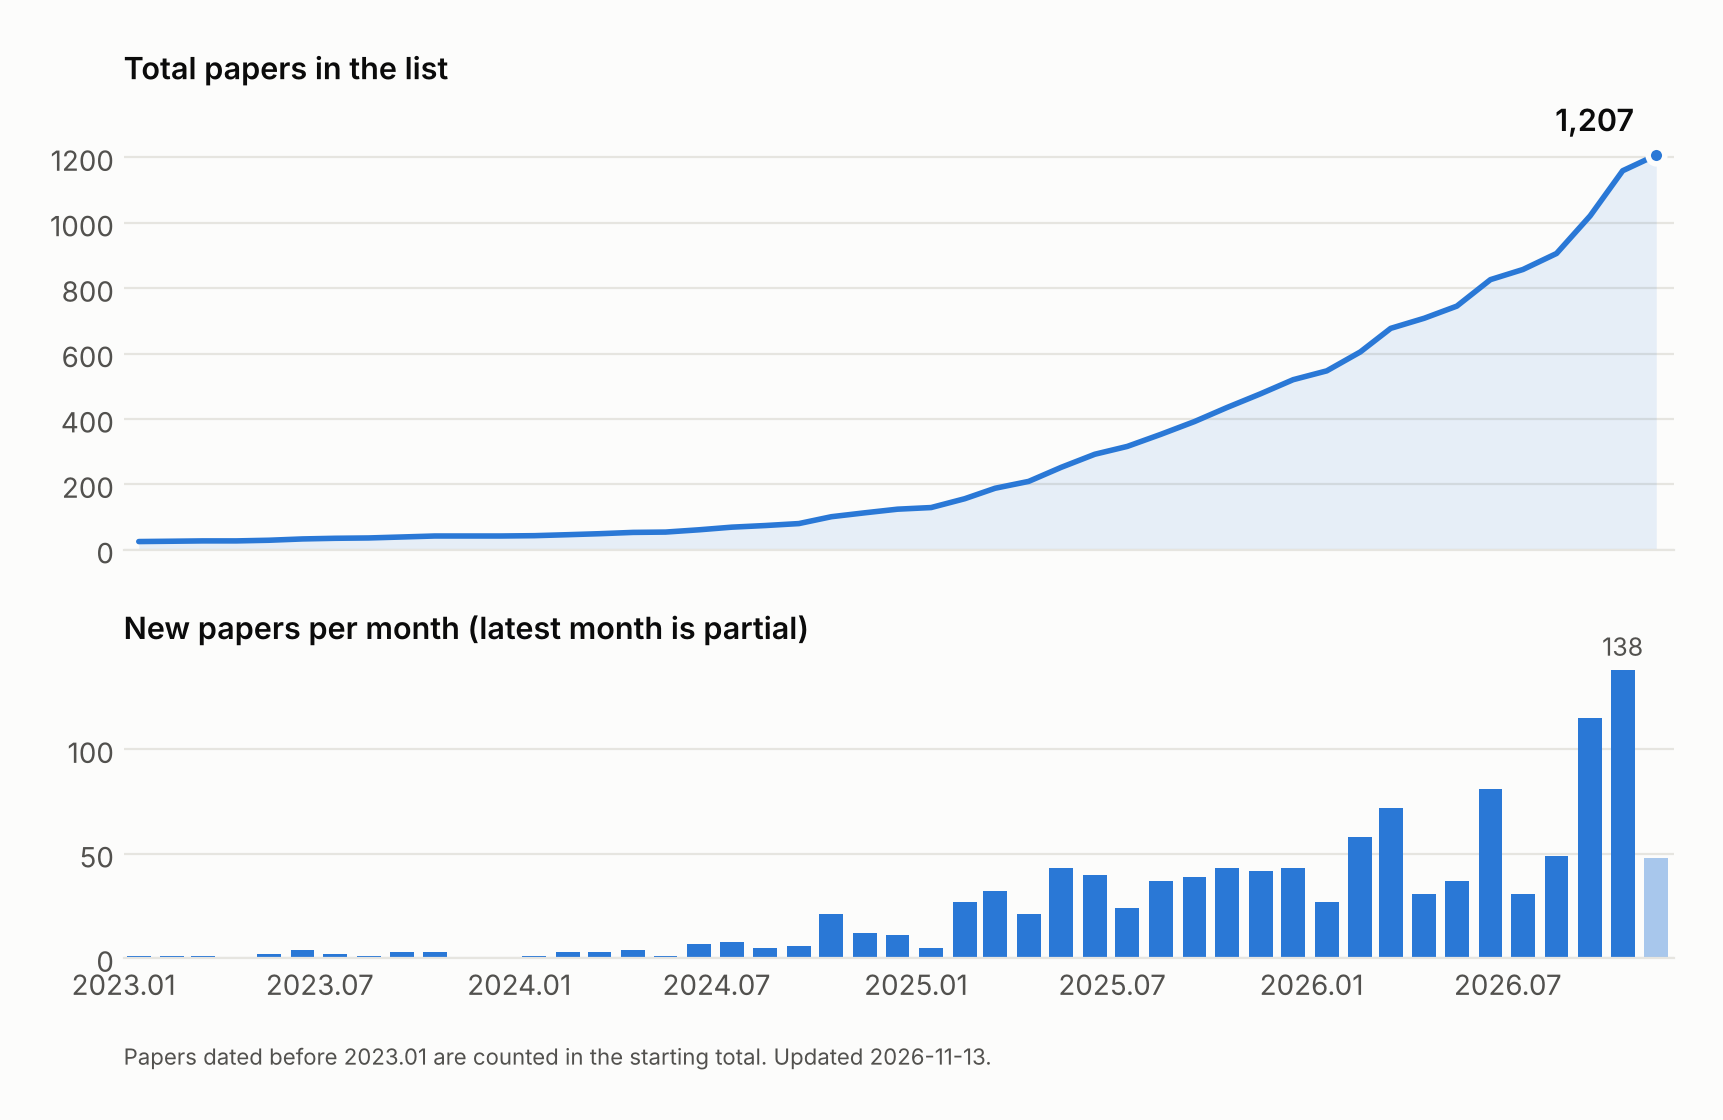
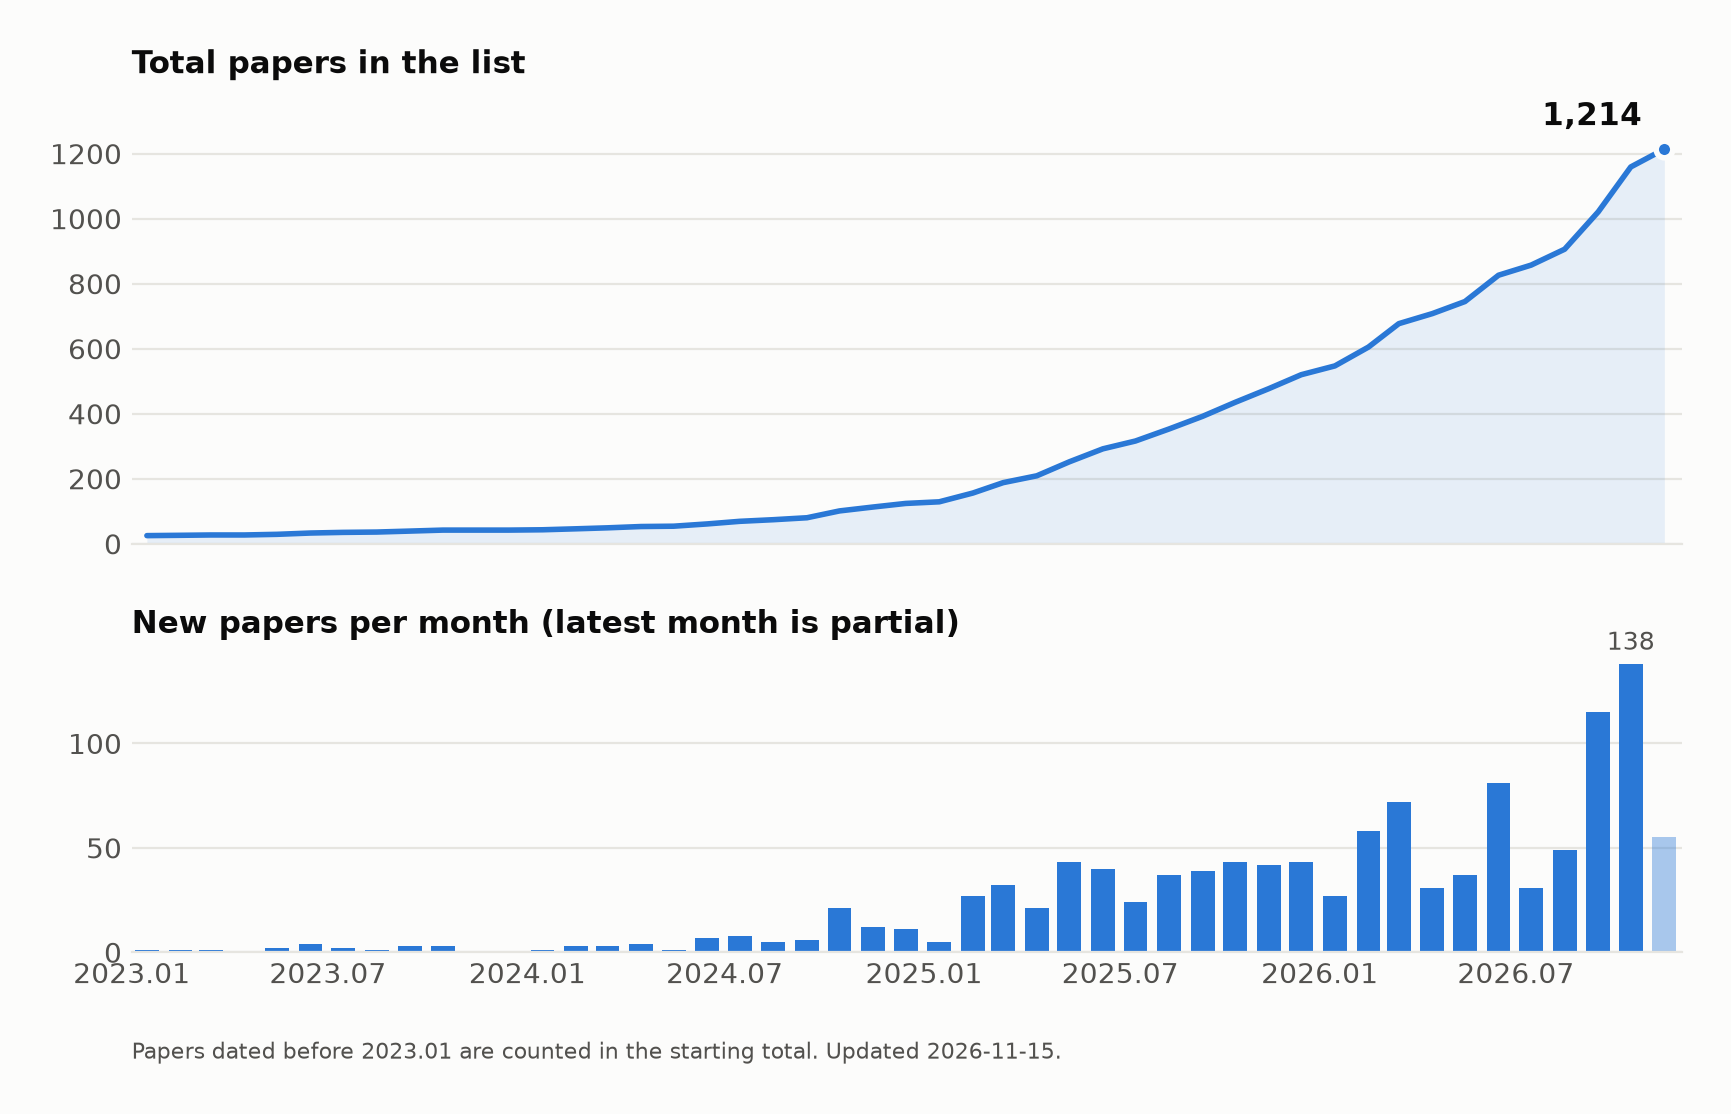
Add 7 papers from arXiv (2026-11-15)

diff --git a/README.md b/README.md
@@ -28,6 +28,9 @@ Feel free to pull a request for new papers/codes about humanoid robot learning.
 ---
 
 ## Loco-Manipulation and Whole-Body-Control
+- [arXiv 2026.11.12](https://arxiv.org/abs/2611.17142), FORGE: Force-Aware Multi-Granularity Control for Efficient Humanoid Loco-Manipulation, [website](https://bb0928.github.io/forge/)
+- 🌟[arXiv 2026.11.12](https://arxiv.org/abs/2611.16422), BlinkMimic: Training a Humanoid Motion Tracker in Minutes on a Single GPU, [code](https://github.com/fuyichen0725/blinkmimic)
+- [arXiv 2026.11.12](https://arxiv.org/abs/2611.16188), PERA: Plug-in Experts for Robotic Actions in Continual Whole-Body Control
 - [arXiv 2026.11](https://arxiv.org/abs/2611.14985), ILA: A Transferable Interface-Level Adapter for Compliant Humanoid Motion Tracking
 - [arXiv 2026.11](https://arxiv.org/abs/2611.14981), From a Single RGB Image to Robot Execution: Metric Scene Alignment and Contact-Guided Retargeting
 - [arXiv 2026.11](https://arxiv.org/abs/2611.14049), RedirectMimic: Local Motion Content Redaction for Humanoid Whole-Body Control, [website](https://xiaopeng-whu.github.io/RedirectMimic/)
@@ -720,6 +723,7 @@ Feel free to pull a request for new papers/codes about humanoid robot learning.
 
 
 ## Locomotion
+- [arXiv 2026.11.12](https://arxiv.org/abs/2611.16346), MotionSkill: From Bipedal Motion Video to Control across Embodiments
 - [arXiv 2026.11](https://arxiv.org/abs/2611.13929), ReACT: Reflection-Consistent Modulation and Cross-Load Consistency for Humanoid Velocity Tracking Under Asymmetric Loads
 - [arXiv 2026.11](https://arxiv.org/abs/2611.08857), STRIDE: Learning Humanoid Locomotion in Minutes with Acceleration-Based Rewards
 - [arXiv 2026.11](https://arxiv.org/abs/2611.08097), STEP: Spatiotemporal Training with Explicit Prediction for Perceptive Humanoid Locomotion
@@ -1017,6 +1021,7 @@ Feel free to pull a request for new papers/codes about humanoid robot learning.
 
 
 ## Sim-to-Real
+- [arXiv 2026.11.11](https://arxiv.org/abs/2611.15524), Reading the Table: Sim-to-Real Game State Detection for the Chef's Hat Card Game
 - [arXiv 2026.10](https://arxiv.org/abs/2610.32277), Delay Randomization Widens the Delay Margin of Learned Humanoid Motion Trackers
 - [arXiv 2026.10](https://arxiv.org/abs/2610.18991), Contact-UAN: Unsupervised Actuator Networks as a Residual World Model for Humanoid Control, [website](https://contact-uan.csail.mit.edu/)
 - [arXiv 2026.10](https://arxiv.org/abs/2610.10905), Informationally Decoupled Trajectory Design for Sim-to-Real System Identification
@@ -1108,6 +1113,7 @@ Feel free to pull a request for new papers/codes about humanoid robot learning.
 - [TRO 2017](https://ieeexplore.ieee.org/document/7827048), Proprioceptive actuator design in the MIT Cheetah: Impact mitigation and high‑bandwidth physical interaction for dynamic legged robots
 
 ## Simulation Benchmark
+- 🌟[arXiv 2026.11.11](https://arxiv.org/abs/2611.15112), Elastra: A Simulation Framework for Elastic Bodies, [code](https://github.com/yichg/elastra)
 - [arXiv 2026.11](https://arxiv.org/abs/2611.10994), RoboMoCap: A Large-Scale Whole-Body Motion Capture Dataset with Egocentric Vision for Robot Learning, [website](https://bitrobot-foundation.github.io/robomocap/)
 - [arXiv 2026.10](https://arxiv.org/abs/2610.30876), LocoManiLab: A Unified Testbed for Data, Policies, Controllers, and Deployment in Humanoid Loco-Manipulation
 - 🌟[arXiv 2026.10](https://arxiv.org/abs/2610.10388), RoboQuest: Generalist Physical Agents that Search, Inspect and Test, [website](https://declare-lab.github.io/RoboQuest/)
@@ -1245,6 +1251,7 @@ Feel free to pull a request for new papers/codes about humanoid robot learning.
 
 
 ## Human Motion Analysis and Synthesis
+- [arXiv 2026.11.11](https://arxiv.org/abs/2611.15101), CFGComposer: Compositional Audio-Text-to-Motion Generation via Copula Score Correction
 - [arXiv 2026.10](https://arxiv.org/abs/2610.30500), PhysibleMDM: Enforcing Inference-Time Physical Feasibility Constraints on Motion Diffusion Models via Noise Optimization
 - [arXiv 2026.10](https://arxiv.org/abs/2610.21515), TRACE: Typed Reference-Aware Conversational Editing for Humanoid Motion Diffusion
 - [arXiv 2026.10](https://arxiv.org/abs/2610.13373), PartiGen: Part-Aware Representations for Language-Conditioned Humanoid Motion Generation
